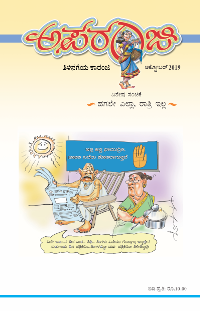
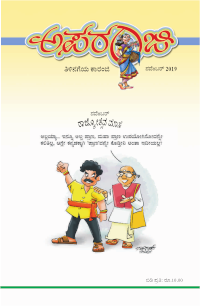
Vol 37 issue 02 updated

diff --git a/index.php b/index.php
@@ -69,7 +69,7 @@ session_start();
 			$currentmonth=$row['month'];
 			
 			echo "<div class=\"holder\">";
-			echo "<div class=\"holder_title\"><img src=\"php/images/theme.png?v.5\" alt=\"Theme Image\"/>&nbsp;<a href=\"Volumes/".$currentyear."_".$currentmonth.".pdf#page=1\" target=\"_blank\">".$month[$currentmonth-1]." ".$currentyear."</a></div>";
+			echo "<div class=\"holder_title\"><img src=\"php/images/theme.png?v.6\" alt=\"Theme Image\"/>&nbsp;<a href=\"Volumes/".$currentyear."_".$currentmonth.".pdf#page=1\" target=\"_blank\">".$month[$currentmonth-1]." ".$currentyear."</a></div>";
 			echo "<div class=\"holder_area\">";
 			$result = $mysqli->query("select * from article where volume = $volume and issue= $issue ");
 			$num_rows=	$result->num_rows;
@@ -91,7 +91,7 @@ session_start();
 			echo "		  </div>
 				</div>";
 				
-			echo "<div class=\"cover\"><a href=\"Volumes/".$currentyear."_".$currentmonth.".pdf#page=1\" target=\"_blank\"><img src=\"php/images/cover.png?v=1\" alt=\"".$month[$currentmonth-1]."\" title=\"".$month[$currentmonth-1]." ಸಂಚಿಕೆ\"/></a></div>";
+			echo "<div class=\"cover\"><a href=\"Volumes/".$currentyear."_".$currentmonth.".pdf#page=1\" target=\"_blank\"><img src=\"php/images/cover.png?v=2\" alt=\"".$month[$currentmonth-1]."\" title=\"".$month[$currentmonth-1]." ಸಂಚಿಕೆ\"/></a></div>";
 		?>
 			
 		
